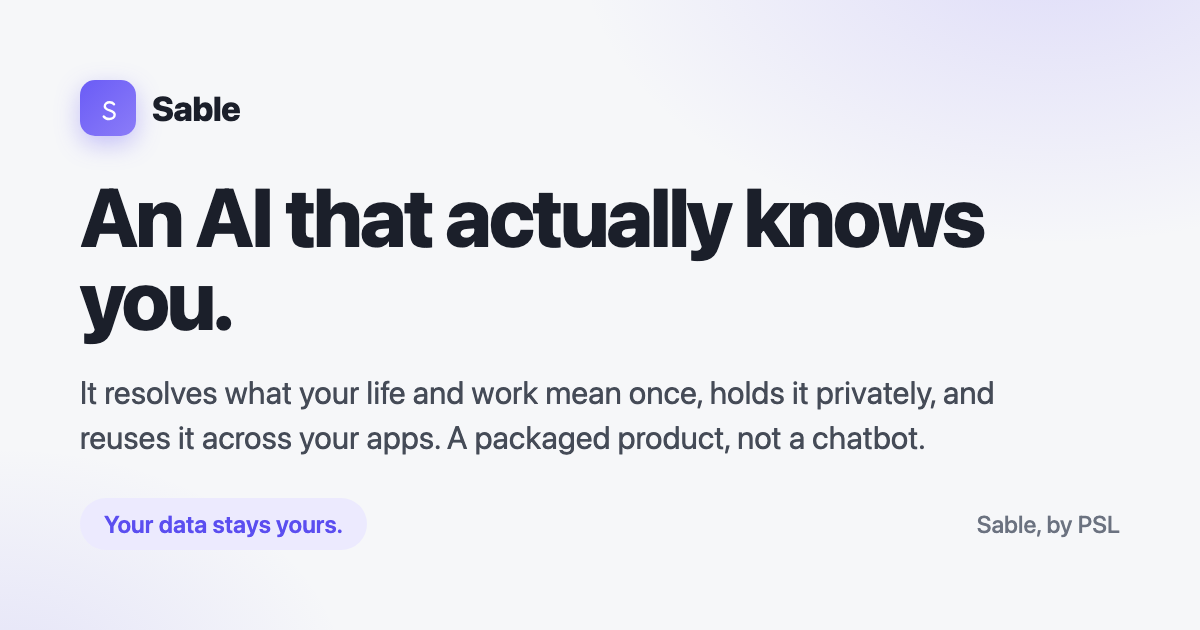
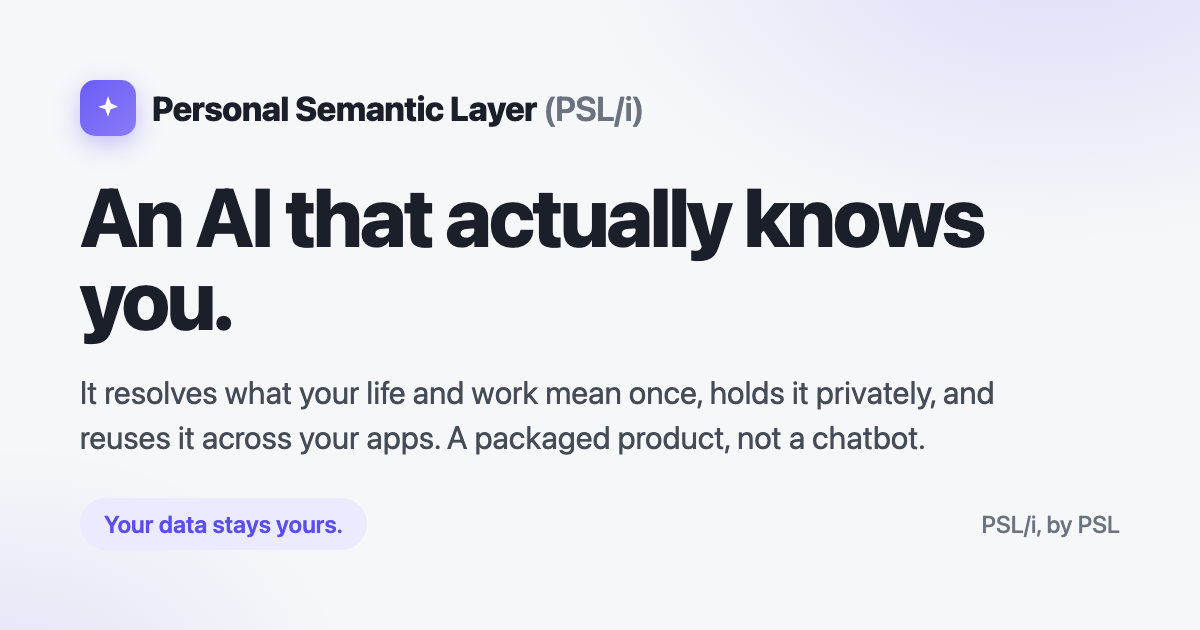
Rename product Sable → Personal Semantic Layer (PSL/i)
Working-name change across all user-facing copy, metadata, and assets:
- Full name "Personal Semantic Layer (PSL/i)" on prominent first mentions
  (site description, home hero eyebrow, footer/legal, JSON-LD, llms.txt,
  for-ai-assistants); short form "PSL/i" for the logo and repeat mentions.
- Hero stays outcome-led ("An AI that actually knows you.").
- Logo glyph + favicon swapped from the Sable "S" to a neutral sparkle.
- Regenerated 1200x630 OG image with the new wordmark.
- Fixed the naming self-contradiction in llms.txt / for-ai-assistants that
  told AI assistants to avoid "semantic layer" (now the product name).
- Updated CLAUDE.md naming rules with a dated note.
- Structural /Sable base-path and repo name intentionally unchanged.

Changed region(s): [[0.1233, 0.1508, 0.555, 0.2111], [0.8017, 0.8143, 0.8633, 0.8444], [0.0617, 0.1508, 0.0925, 0.181]]

diff --git a/src/data/home.ts b/src/data/home.ts
@@ -2,11 +2,11 @@
 // Approved copy bank used verbatim where noted.
 
 export const hero = {
-  eyebrow: 'Meet Sable',
+  eyebrow: 'Meet Personal Semantic Layer (PSL/i)',
   // Outcome-led. Never architecture words. (brief §2)
   headline: 'An AI that actually knows you.',
   subhead:
-    'Sable resolves what your life and work mean — once — holds it privately, and reuses it across your apps. A packaged product, not a chatbot.',
+    'PSL/i resolves what your life and work mean — once — holds it privately, and reuses it across your apps. A packaged product, not a chatbot.',
   primary: { label: 'Get early access', href: '/waitlist' },
   secondary: { label: 'See how it works', href: '/how-it-works' },
   microcopy: 'Your data stays yours.',
@@ -30,13 +30,13 @@ export const howItWorks = {
   // Approved copy bank — How-it-works headline + adapted subhead.
   headline: 'One foundation. Resolved once. Used everywhere.',
   subhead:
-    'Sable resolves what your world means one time, holds it, and reuses it — instead of rebuilding it on every request.',
+    'PSL/i resolves what your world means one time, holds it, and reuses it — instead of rebuilding it on every request.',
   steps: [
     {
       n: '01',
       key: 'resolve',
       title: 'Resolve',
-      body: 'Sable reads across your apps and works out what things actually mean — the people, commitments, money, and documents in your life.',
+      body: 'PSL/i reads across your apps and works out what things actually mean — the people, commitments, money, and documents in your life.',
       accent: 'blue',
     },
     {
@@ -50,7 +50,7 @@ export const howItWorks = {
       n: '03',
       key: 'reuse',
       title: 'Reuse',
-      body: 'Every lens draws on the same Foundation, so Sable answers and acts with full context — without you re-explaining a thing.',
+      body: 'Every lens draws on the same Foundation, so PSL/i answers and acts with full context — without you re-explaining a thing.',
       accent: 'teal',
     },
   ],
@@ -66,7 +66,7 @@ export const lenses = {
       name: 'Communications',
       accent: 'blue',
       tagline: 'Triage, and drafts in your voice.',
-      body: 'The full communications surface plus a cold-start engine — Sable triages what matters and drafts replies that sound like you, grounded in what it already knows.',
+      body: 'The full communications surface plus a cold-start engine — PSL/i triages what matters and drafts replies that sound like you, grounded in what it already knows.',
       example: '“Draft a reply to Jane about the renewal.”',
     },
     {
@@ -83,7 +83,7 @@ export const lenses = {
 export const worksOverApps = {
   headline: 'Works over the apps you already use.',
   subhead:
-    'Sable connects to your existing tools and leaves them as the system of record. Nothing gets migrated. Nothing gets locked in.',
+    'PSL/i connects to your existing tools and leaves them as the system of record. Nothing gets migrated. Nothing gets locked in.',
   connectors: ['Email', 'Calendar', 'Contacts', 'Messaging', 'Documents', 'Notes'],
 };
 
@@ -91,7 +91,7 @@ export const trust = {
   // Sell memory + trust together.
   headline: 'Trust, built into how it works.',
   subhead:
-    'Sable is designed so that knowing you never means losing control of your data.',
+    'PSL/i is designed so that knowing you never means losing control of your data.',
   points: [
     {
       title: 'Human-gated writes',
@@ -100,12 +100,12 @@ export const trust = {
     },
     {
       title: 'Source traces',
-      body: 'Every fact Sable holds shows where it came from. You can see exactly why it believes what it believes.',
+      body: 'Every fact PSL/i holds shows where it came from. You can see exactly why it believes what it believes.',
       accent: 'blue',
     },
     {
       title: 'Full audit',
-      body: 'A complete, reviewable record of what Sable knew, proposed, and did — always available to you.',
+      body: 'A complete, reviewable record of what PSL/i knew, proposed, and did — always available to you.',
       accent: 'violet',
     },
     {
@@ -119,7 +119,7 @@ export const trust = {
 
 export const dataPlace = {
   headline: 'Your data, your place.',
-  subhead: 'One price. Two ways to run Sable — you choose where your Foundation lives.',
+  subhead: 'One price. Two ways to run PSL/i — you choose where your Foundation lives.',
   tiers: [
     {
       name: 'Cloud',
@@ -129,7 +129,7 @@ export const dataPlace = {
     },
     {
       name: 'Home Server',
-      body: 'A local appliance in your home. Your data never leaves the house — the strongest privacy guarantee Sable offers.',
+      body: 'A local appliance in your home. Your data never leaves the house — the strongest privacy guarantee PSL/i offers.',
       points: ['Data never leaves home', 'You hold the keys', 'For privacy-maximalists'],
       accent: 'teal',
     },
@@ -141,7 +141,7 @@ export const credibility = {
   // Honest, pre-launch framing — no fake logos, no fabricated testimonials.
   headline: 'Built in the open, with early users.',
   subhead:
-    'Sable is in early access, shaped hand-in-hand with a small group of design partners. Real names and stories will land here as the group grows — we won’t borrow logos we haven’t earned.',
+    'PSL/i is in early access, shaped hand-in-hand with a small group of design partners. Real names and stories will land here as the group grows — we won’t borrow logos we haven’t earned.',
   principles: [
     { label: 'Private by design', accent: 'teal' },
     { label: 'Human-gated actions', accent: 'green' },
@@ -151,7 +151,7 @@ export const credibility = {
 
 export const pricing = {
   headline: 'One price. Everything included.',
-  subhead: 'No tiers of features to decode. Choose where Sable runs; the product is the same.',
+  subhead: 'No tiers of features to decode. Choose where PSL/i runs; the product is the same.',
   price: '$100',
   cadence: '/month',
   includes: [
@@ -170,10 +170,10 @@ export const faq = {
   items: [
     {
       q: 'Is this just another chatbot?',
-      a: 'No. Sable is a packaged product, not a chat box. It holds a private, structured understanding of your life and acts through focused lenses — with your approval — rather than starting from a blank prompt every time.',
+      a: 'No. PSL/i is a packaged product, not a chat box. It holds a private, structured understanding of your life and acts through focused lenses — with your approval — rather than starting from a blank prompt every time.',
     },
     {
-      q: 'What can Sable see?',
+      q: 'What can PSL/i see?',
       a: 'Only the apps you connect, and only to resolve meaning for you. Every fact it holds carries a source trace, so you can always see what it knows and where each piece came from.',
     },
     {
@@ -193,7 +193,7 @@ export const faq = {
 
 export const finalCta = {
   headline: 'Stop re-explaining yourself to AI.',
-  subhead: 'Sable remembers your whole life — privately, and on your terms.',
+  subhead: 'PSL/i remembers your whole life — privately, and on your terms.',
   primary: { label: 'Get early access', href: '/waitlist' },
   // Approved copy bank — trust tagline.
   tagline: 'Your data. Your context. Your decisions.',

diff --git a/src/data/privacy.ts b/src/data/privacy.ts
@@ -1,10 +1,10 @@
 // Copy for the Privacy & Trust page (brief §7, the differentiator page).
 
 export const canSee = {
-  headline: 'What Sable can — and can’t — see.',
-  subhead: 'No surprises. Sable only ever works with what you explicitly connect.',
+  headline: 'What PSL/i can — and can’t — see.',
+  subhead: 'No surprises. PSL/i only ever works with what you explicitly connect.',
   can: {
-    title: 'What Sable can see',
+    title: 'What PSL/i can see',
     items: [
       'The apps you explicitly connect — and only those',
       'The meaning it resolves from them (people, commitments, money, documents)',
@@ -12,7 +12,7 @@ export const canSee = {
     ],
   },
   cannot: {
-    title: 'What Sable can’t do',
+    title: 'What PSL/i can’t do',
     items: [
       'Reach into anything you haven’t connected',
       'Send, change, or delete anything without your approval',
@@ -22,7 +22,7 @@ export const canSee = {
 };
 
 export const foundation = {
-  headline: 'See everything Sable knows about you.',
+  headline: 'See everything PSL/i knows about you.',
   subhead:
     'Your Foundation is inspectable, down to the source. Every fact can be traced, edited, or deleted — by you, at any time.',
   facts: [

diff --git a/src/data/site.ts b/src/data/site.ts
@@ -1,11 +1,14 @@
 // Site-wide copy + structure. Never hard-code these in components.
 
 export const site = {
-  name: 'Sable',
-  legalName: 'Sable, by PSL',
+  // Working name: "Personal Semantic Layer (PSL/i)". Short form "PSL/i" for
+  // the logo, titles, and repeat mentions; full name on first/prominent use.
+  name: 'PSL/i',
+  fullName: 'Personal Semantic Layer (PSL/i)',
+  legalName: 'Personal Semantic Layer (PSL/i), by PSL',
   tagline: 'An AI that actually knows you.',
   description:
-    'Sable is an AI that actually knows you — it resolves what your life and work mean once, holds it privately, and reuses it across your apps. A packaged product, not a chatbot.',
+    'Personal Semantic Layer (PSL/i) is an AI that actually knows you — it resolves what your life and work mean once, holds it privately, and reuses it across your apps. A packaged product, not a chatbot.',
   trustTagline: 'Your data. Your context. Your decisions.',
 };
 

diff --git a/src/data/navigator.ts b/src/data/navigator.ts
@@ -3,9 +3,9 @@
 
 export const navigatorApproval = {
   title: 'Review & approve',
-  subhead: '3 things Sable prepared for you. Nothing is sent or changed until you approve.',
+  subhead: '3 things PSL/i prepared for you. Nothing is sent or changed until you approve.',
   auto: 'Routine updates — filing, labels, contact details — were applied automatically. Only outbound actions and anything unusual stop here.',
-  footer: 'You are always the last step. Sable proposes; you decide.',
+  footer: 'You are always the last step. PSL/i proposes; you decide.',
   // The first item is shown expanded with a preview + actions.
   items: [
     {

diff --git a/CLAUDE.md b/CLAUDE.md
@@ -1,13 +1,15 @@
-# CLAUDE.md — Sable marketing site
+# CLAUDE.md — Personal Semantic Layer (PSL/i) marketing site
 
-You are building the **Sable** marketing website. Read this file every session. Full detail: `Sable_Website_Design_Brief.md`.
+You are building the **Personal Semantic Layer (PSL/i)** marketing website. Read this file every session. Full detail: `Sable_Website_Design_Brief.md`.
+
+> **Naming update (2026‑07‑04):** the product working name is now **Personal Semantic Layer (PSL/i)** (short form **PSL/i**), replacing the former name *Sable*. Older parts of the brief may still say “Sable” — treat those as “PSL/i”.
 
 ## Brand & naming (strict)
-- Product = **Sable**. Company/brand = **PSL**. Footer/legal: “**Sable, by PSL**”.
-- “personal semantic layer” is a **descriptor** for How‑it‑works / Vision only. **Never** in the hero.
-- Never open with architecture words (semantic layer, ontology, deterministic, infrastructure).
+- Product = **Personal Semantic Layer (PSL/i)**. Company/brand = **PSL**. Footer/legal: “**Personal Semantic Layer (PSL/i), by PSL**”.
+- Use the **full name on the first/prominent mention** of a page, then the short form **PSL/i** for the logo and repeat mentions.
+- The **hero stays outcome‑led** — keep the headline “An AI that actually knows you.” Introduce the name in the eyebrow, not the headline. Don’t turn the headline into an architecture phrase.
 
-## What Sable is (one line)
+## What PSL/i is (one line)
 An AI that actually knows you — it resolves what your life and work mean once, holds it privately, and reuses it across your apps. Navigator (proposes, acts only after you approve) · Foundation (private store of resolved meaning, with provenance + audit) · two V1 lenses (Communications, Reasoning) · $100/mo · Cloud + Home‑Server tiers · trust by design.
 
 ## Positioning rules